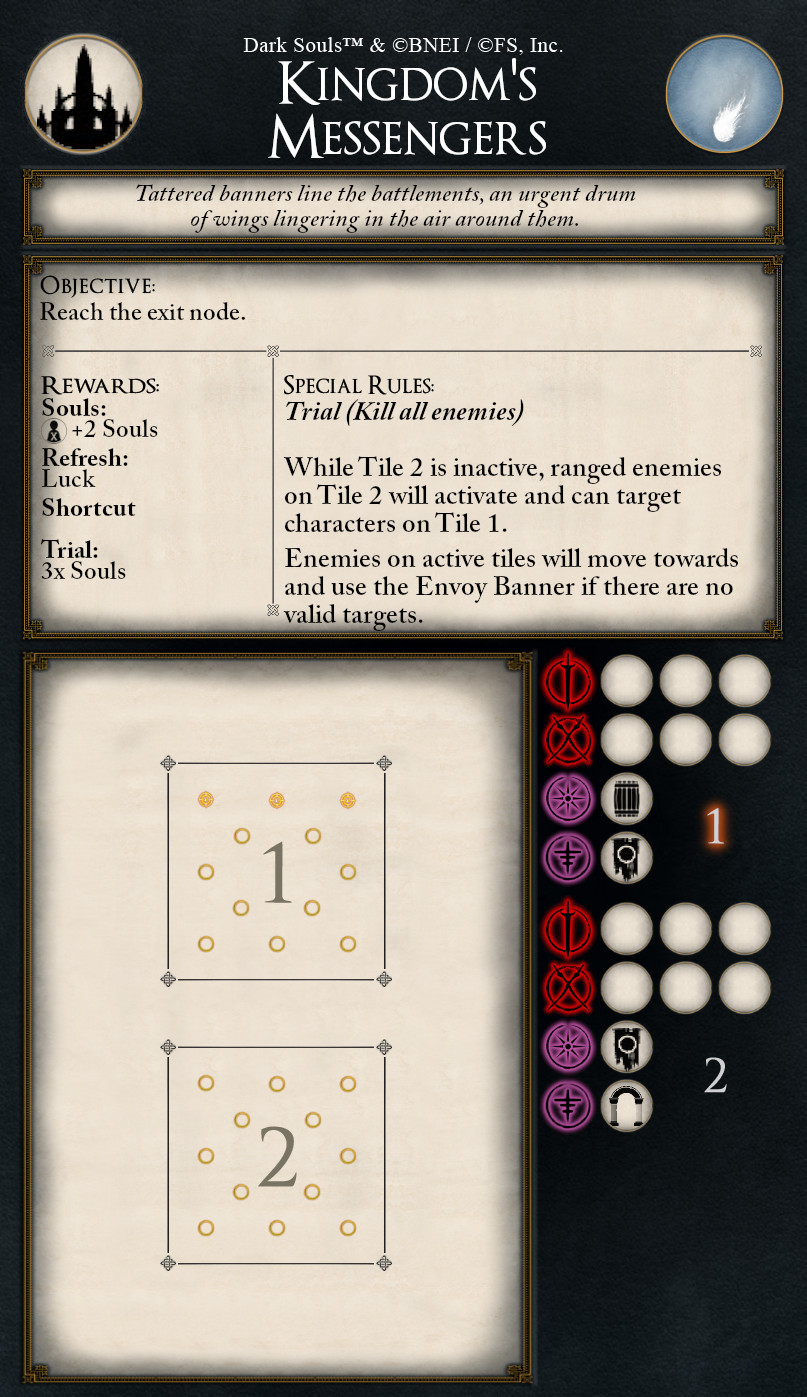
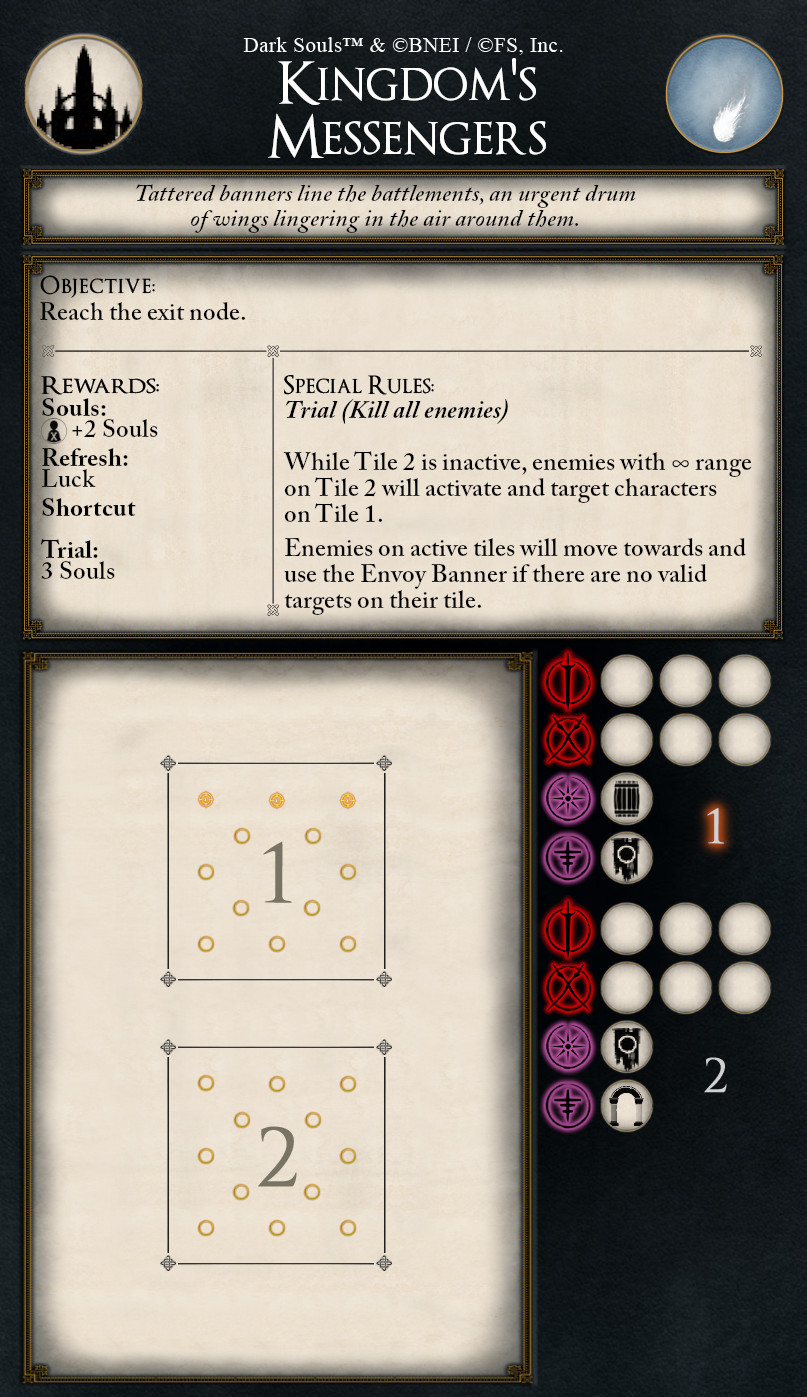
Edited encounters, various fixes.

Changed region(s): [[0.3408, 0.277, 0.9294, 0.4617], [0.062, 0.4001, 0.1549, 0.4309]]

diff --git a/ui/encounter_mode/play_panels.py b/ui/encounter_mode/play_panels.py
@@ -331,8 +331,8 @@ def _render_objectives(encounter: dict, settings: dict) -> None:
     # Figure out if there is a tile cap for this encounter
     tile_cap = OBJECTIVE_TILE_CAPS.get(encounter_key)
 
-    primary = cfg.get("objectives") or []
-    trials = cfg.get("trials") or []
+    primary = cfg.get("objectives", [])
+    trials = cfg.get("trials", [])
 
     if len(primary) + len(trials) == 0:
         return
@@ -1730,10 +1730,42 @@ def _apply_behavior_mods_to_raw(
         # simple handling for common stats
         if op == "flag":
             # set boolean flags on attacks
+            status_effects = {"bleed", "poison", "frostbite", "stagger"}
             for node in _iter_attack_nodes():
-                if ("damage" not in node and "effect" not in node):
+                if not isinstance(node, dict):
                     continue
-                node[stat] = True if val is None else bool(val)
+
+                # Determine eligibility for status effects. Only attach
+                # status effects to attacks that are `physical` or `magic`,
+                # or to `move` attacks that include a `push` key. As a
+                # defensive fallback, allow nodes that explicitly define
+                # a `damage` key.
+                node_type = node.get("type")
+                eligible = False
+                if node_type in ("physical", "magic"):
+                    eligible = True
+                elif node_type == "move":
+                    if node.get("push") is not None:
+                        eligible = True
+                elif "damage" in node:
+                    eligible = True
+
+                if stat in status_effects:
+                    if not eligible:
+                        continue
+                    effects = node.setdefault("effect", [])
+                    if isinstance(effects, list):
+                        if val is None or bool(val):
+                            if stat not in effects:
+                                effects.append(stat)
+                        else:
+                            if stat in effects:
+                                try:
+                                    effects.remove(stat)
+                                except ValueError:
+                                    pass
+                else:
+                    node[stat] = True if val is None else bool(val)
             patched[stat] = True if val is None else val
             continue
 
@@ -1771,13 +1803,52 @@ def _apply_behavior_mods_to_raw(
                 patched["dodge_difficulty"] = old + val
             continue
 
+        # Special handling for adding `repeat` to single-card behaviors.
+        # When the behavior is a single-card dict (common for regular enemies),
+        # prefer to increment an existing `repeat` on a slot, or place it into
+        # the first empty slot (left->middle->right).
+        if op == "add" and stat == "repeat" and isinstance(val, (int, float)):
+            applied = False
+            beh = patched.get("behavior")
+            if isinstance(beh, dict):
+                slots = ["left", "middle", "right"]
+                # 1) If any slot already has repeat, increment it.
+                for s in slots:
+                    node = beh.get(s)
+                    if isinstance(node, dict) and isinstance(node.get("repeat"), (int, float)):
+                        node["repeat"] = int(node.get("repeat", 0)) + int(val)
+                        applied = True
+                        break
+
+                # 2) Otherwise, find the first empty slot (empty dict) and add repeat there.
+                if not applied:
+                    for s in slots:
+                        node = beh.get(s)
+                        if isinstance(node, dict) and len(node) == 0:
+                            node["repeat"] = int(val) + 1
+                            applied = True
+                            break
+            continue
+
         if op == "add":
             old = patched.get(stat, 0)
             patched[stat] = old + val
             continue
 
         if op == "set":
-            # Overwrite the stat with the provided value.
+            # Special-case: setting attack `type` should modify each attack node
+            # (left/middle/right or behavior entries) so attacks change from
+            # e.g. "physical" to "magic". Also set the top-level stat.
+            if stat == "type":
+                for node in _iter_attack_nodes():
+                    if not isinstance(node, dict):
+                        continue
+                    # Only convert attacks that are explicitly `physical`.
+                    # This avoids overwriting `move` or other special types
+                    # (which previously caused move icons to be lost).
+                    node_type = node.get("type")
+                    if node_type == "physical":
+                        node["type"] = val
             patched[stat] = val
             continue
 
@@ -1824,9 +1895,23 @@ def _describe_behavior_mod(mod: Dict[str, Any]) -> str:
     # If the description references player count, substitute the runtime
     # player count so users see a concrete number (e.g., +2 health).
     desc = mod.get("description")
-    if isinstance(desc, str) and "[player_num]" in desc:
-        pn = get_player_count()
-        return desc.replace("[player_num]", str(pn))
+    if isinstance(desc, str):
+        # Support patterns like [player_num], [player_num+N], [player_num-N]
+        import re
+        pattern = re.compile(r"\[player_num(?:([+-]\d+))?\]")
+
+        def _replace(m: re.Match) -> str:
+            off = m.group(1)
+            pn = get_player_count()
+            if off:
+                try:
+                    pn = pn + int(off)
+                except Exception:
+                    pass
+            return str(pn)
+
+        if pattern.search(desc):
+            return pattern.sub(_replace, desc)
 
     # If there is an explicit description, return it (no placeholder present)
     desc = mod.get("description")

diff --git a/ui/encounter_mode/generation.py b/ui/encounter_mode/generation.py
@@ -300,6 +300,43 @@ EDITED_SPECIAL_RULE_ENEMY_ICON_SLOTS: Dict[Tuple[str, str], List[SpecialRuleEnem
         SpecialRuleEnemyIcon(enemy_index=0, x=416, y=394, size=28),
         SpecialRuleEnemyIcon(enemy_index=0, x=285, y=494, size=28),
     ],
+    ("Eye of the Storm", "Painted World of Ariamis"): [
+        SpecialRuleEnemyIcon(enemy_index=0, x=378, y=510, size=28),
+        SpecialRuleEnemyIcon(enemy_index=5, x=650, y=540, size=28),
+        SpecialRuleEnemyIcon(enemy_index=5, x=125, y=295, size=28),
+    ],
+    ("Frozen Revolutions", "Painted World of Ariamis"): [
+        SpecialRuleEnemyIcon(enemy_index=6, x=283, y=452, size=28),
+        SpecialRuleEnemyIcon(enemy_index=6, x=283, y=480, size=28),
+        SpecialRuleEnemyIcon(enemy_index=6, x=700, y=478, size=28),
+        SpecialRuleEnemyIcon(enemy_index=6, x=375, y=555, size=28),
+    ],
+    ("Velka's Chosen", "Painted World of Ariamis"): [
+        SpecialRuleEnemyIcon(enemy_index=2, x=130, y=295),
+        SpecialRuleEnemyIcon(enemy_index=2, x=598, y=445),
+        SpecialRuleEnemyIcon(enemy_index=2, x=420, y=495),
+    ],
+    ("The Bell Tower", "The Sunless City"): [
+        SpecialRuleEnemyIcon(enemy_index=2, x=647, y=450, size=28),
+        SpecialRuleEnemyIcon(enemy_index=3, x=688, y=450, size=28),
+    ],
+    ("Flooded Fortress", "The Sunless City"): [
+        SpecialRuleEnemyIcon(enemy_index=2, x=433, y=400, size=28),
+    ],
+    ("The Hellkite Bridge", "The Sunless City"): [
+        SpecialRuleEnemyIcon(enemy_index=2, x=640, y=500, size=28),
+    ],
+    ("Central Plaza", "The Sunless City"): [
+        SpecialRuleEnemyIcon(enemy_index=4, x=285, y=490, size=28),
+    ],
+    ("Grim Reunion", "The Sunless City"): [
+        SpecialRuleEnemyIcon(enemy_index=10, x=438, y=394, size=28),
+        SpecialRuleEnemyIcon(enemy_index=10, x=540, y=477, size=28),
+        SpecialRuleEnemyIcon(enemy_index=10, x=573, y=587, size=28),
+    ],
+    ("The Grand Hall", "The Sunless City"): [
+        SpecialRuleEnemyIcon(enemy_index=7, x=360, y=453, size=28),
+    ],
 }
 
 

diff --git a/ui/encounter_mode/logic.py b/ui/encounter_mode/logic.py
@@ -94,15 +94,6 @@ ENCOUNTER_BEHAVIOR_MODIFIERS_EDITED = {
             "description": "Attacks gain push from special rules.",
         }
     ],
-    "Painted World of Ariamis_3_Central Plaza": [],
-    "Painted World of Ariamis_3_Deathly Freeze": [],
-    "Painted World of Ariamis_3_Eye of the Storm": [],
-    "Painted World of Ariamis_3_Frozen Revolutions": [],
-    "Painted World of Ariamis_3_Velka's Chosen": [],
-    "The Sunless City_1_Illusionary Doorway": [],
-    "The Sunless City_1_Kingdom's Messengers": [],
-    "The Sunless City_1_The Bell Tower": [],
-    "The Sunless City_2_Flooded Fortress": [],
     "The Sunless City_2_Parish Church": [],
     "The Sunless City_2_The Hellkite Bridge": [],
     "The Sunless City_3_Central Plaza": [],
@@ -312,7 +303,7 @@ ENCOUNTER_BEHAVIOR_MODIFIERS = {
             "op": "add",
             "base": 2,
             "per_player": 1,
-            "description": "+[player_num] health from special rules.",
+            "description": "+[player_num+2] health from special rules.",
         },
         {
             "id": "pw_velkas_chosen_block",
@@ -543,11 +534,11 @@ ENCOUNTER_BEHAVIOR_MODIFIERS = {
             "description": "+Timer value dodge difficulty from special rules.",
         },
     ],
-    "The Sunless City_1_Gleaming Silver": [
+    "The Sunless City_2_Gleaming Silver": [
         {
             "id": "tsc_gleaming_silver_block",
             "source": "encounter",
-            "source_id": "The Sunless City_1_Gleaming Silver",
+            "source_id": "The Sunless City_2_Gleaming Silver",
             "target_alt_indices": [0,1,3,4],
             "stat": "block",
             "op": "add",
@@ -557,7 +548,7 @@ ENCOUNTER_BEHAVIOR_MODIFIERS = {
         {
             "id": "tsc_gleaming_silver_frostbite",
             "source": "encounter",
-            "source_id": "The Sunless City_1_Gleaming Silver",
+            "source_id": "The Sunless City_2_Gleaming Silver",
             "target_alt_indices": [0,1,3,4],
             "stat": "frostbite",
             "op": "flag",

diff --git a/core/ngplus.py b/core/ngplus.py
@@ -82,8 +82,17 @@ def _apply_to_card_dict(card: Dict[str, Any], level: int) -> Dict[str, Any]:
             region = deepcopy(region)
             region["damage"] = damage_for_level(int(region["damage"]), level)
             card[side] = region
+        
+        # Also scale numeric push values on the region (some move-attacks
+        # encode their push as a numeric `push` field). Preserve boolean
+        # `push` flags (they indicate presence rather than amount).
+        if isinstance(region, dict) and "push" in region and isinstance(region["push"], (int, float)):
+            region = deepcopy(region)
+            region["push"] = damage_for_level(int(region["push"]), level)
+            card[side] = region
 
     return card
+
 
 
 def apply_ngplus_to_raw(

diff --git a/ui/encounter_mode/setup_tab.py b/ui/encounter_mode/setup_tab.py
@@ -449,6 +449,7 @@ def render(settings: dict, valid_party: bool, character_count: int) -> None:
                 encounter_changed = (
                     last.get("label") != selected_label
                     or last.get("edited") != use_edited
+                    or last.get("expansion") != selected_expansion
                 )
 
                 if encounter_changed:
@@ -926,6 +927,7 @@ def render(settings: dict, valid_party: bool, character_count: int) -> None:
             encounter_changed = (
                 last.get("label") != selected_label
                 or last.get("edited") != use_edited
+                or last.get("expansion") != selected_expansion
             )
 
             if encounter_changed:
